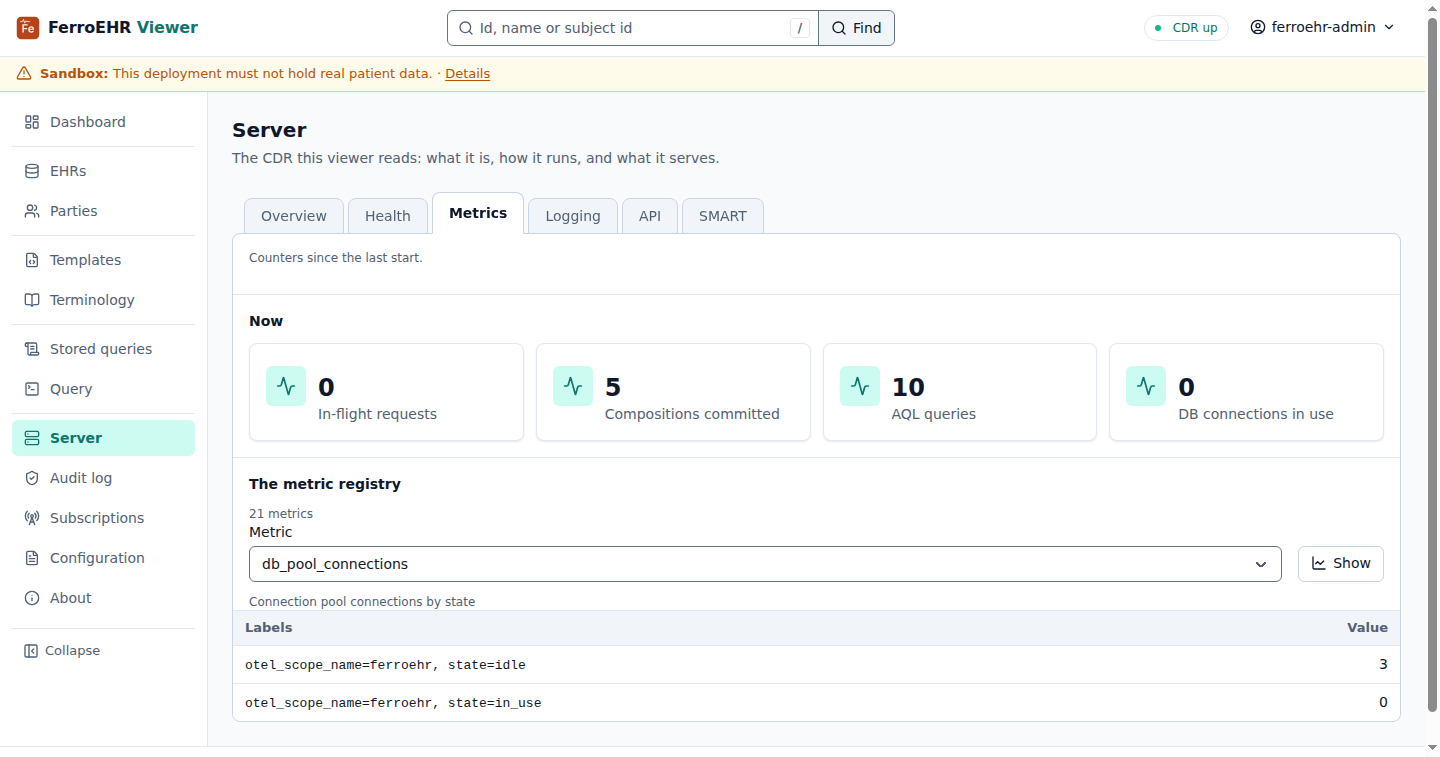
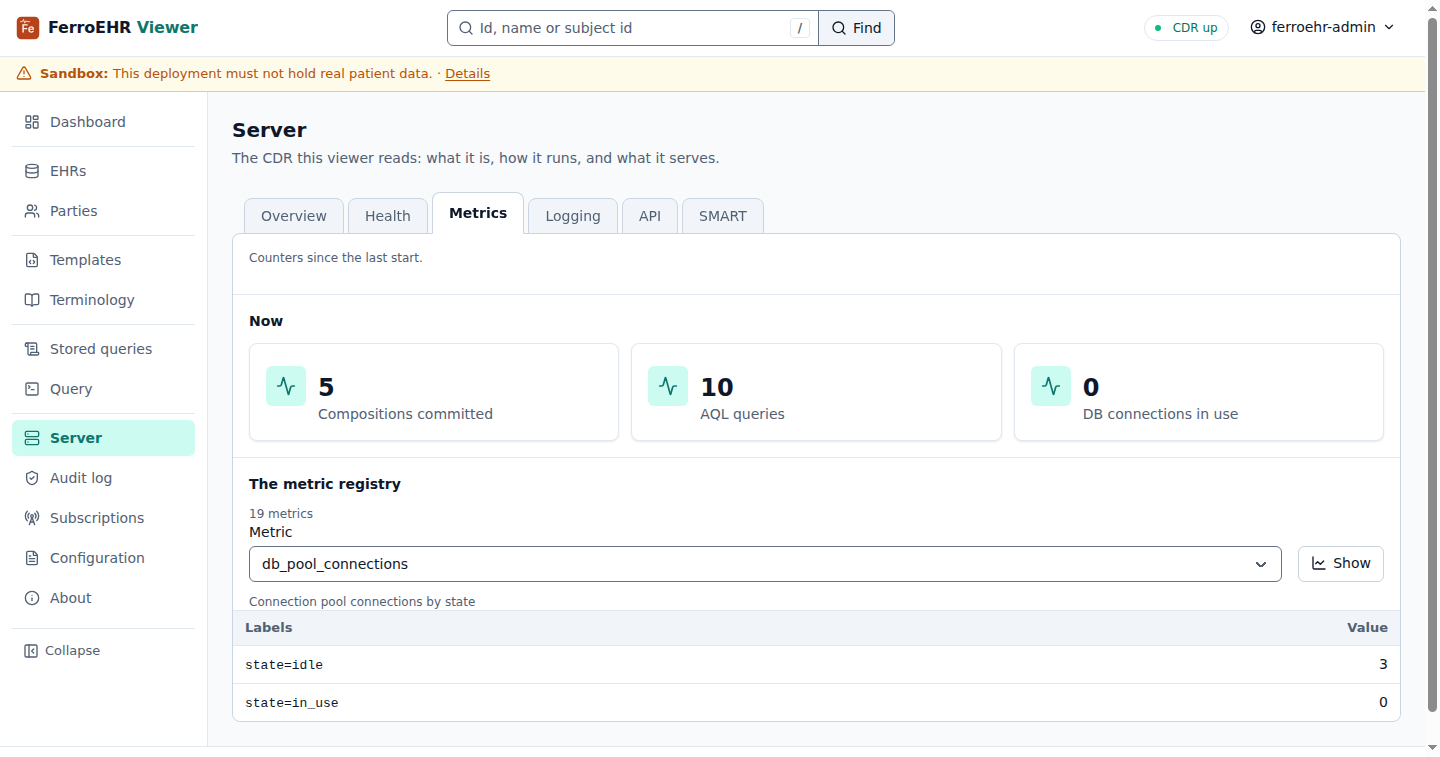
docs(viewer): retake the server metrics and health screenshots; re-render the control matrix

diff --git a/website/book/src/compliance/control-matrix.md b/website/book/src/compliance/control-matrix.md
@@ -78,6 +78,7 @@ last regenerated, and from which commit, is the file's own git history.
 | [GDPR](https://eur-lex.europa.eu/eli/reg/2016/679/oj) | EU | Art. 4(5) | Separate encryption keys and per-schema backup handling for the clinical and demographic domains | [#3157](https://github.com/FerroHEALTH/FerroEHR/issues/3157) | Shipped | [#3198](https://github.com/FerroHEALTH/FerroEHR/pull/3198) |
 | [GDPR](https://eur-lex.europa.eu/eli/reg/2016/679/oj) | EU | Art. 4(5) | Linkage service: the party to EHR resolve map as its own schema and role | [#3158](https://github.com/FerroHEALTH/FerroEHR/issues/3158) | Shipped | — |
 | [GDPR](https://eur-lex.europa.eu/eli/reg/2016/679/oj) | EU | Art. 4(5) | The subject pseudonym is opt-in: nothing mints it, and an empty subject_namespaces is silent | [#3232](https://github.com/FerroHEALTH/FerroEHR/issues/3232) | Shipped | [#3266](https://github.com/FerroHEALTH/FerroEHR/pull/3266) |
+| [GDPR](https://eur-lex.europa.eu/eli/reg/2016/679/oj) | EU | Art. 4(5) | The patient-to-EHR cross-reference in an IHE patient identity source asked over PIXm by default, the in-instance map an explicit opt-in, and no identity logic in the CDR | [#3380](https://github.com/FerroHEALTH/FerroEHR/issues/3380) | Planned | — |
 | [GDPR](https://eur-lex.europa.eu/eli/reg/2016/679/oj) | EU | Art. 5(1)(b) | Cross-domain cohort queries with a demographic predicate and a clinical selection | [#3159](https://github.com/FerroHEALTH/FerroEHR/issues/3159) | Shipped | [#3275](https://github.com/FerroHEALTH/FerroEHR/pull/3275) |
 | [GDPR](https://eur-lex.europa.eu/eli/reg/2016/679/oj) | EU | Art. 5(1)(e) | Audit retention has no jurisdictional floor: retention_days=1 erases the access log daily while the chain still verifies | [#3242](https://github.com/FerroHEALTH/FerroEHR/issues/3242) | Shipped | [#3266](https://github.com/FerroHEALTH/FerroEHR/pull/3266) |
 | [GDPR](https://eur-lex.europa.eu/eli/reg/2016/679/oj) | EU | Art. 5(1)(e) | A retention register of the period per content category and jurisdiction with its legal citation, per-EHR anchors, whole-record and per-object holds, a view of what has run out, and a boot-checked ceiling on access-log retention | [#3346](https://github.com/FerroHEALTH/FerroEHR/issues/3346) | Shipped | [#3410](https://github.com/FerroHEALTH/FerroEHR/pull/3410) |

diff --git a/CHANGELOG.md b/CHANGELOG.md
@@ -180,7 +180,8 @@ workflow refuses a tag that has no matching section here.
   `http_response_status_code=~"5.."`, as the bundled alert rules and Grafana
   dashboard now read. The `http_server_active_requests`,
   `http_server_request_body_size` and `http_server_response_body_size`
-  series are removed. The viewer's management page loses its in-flight
+  series are removed, and no series on `/management/prometheus` carries the
+  `otel_scope_name` label any more. The viewer's management page loses its in-flight
   requests tile, and the dashboard's in-flight panel shows the request rate.
 
 - **Breaking: responses no longer carry `x-trace-id`, and a client's
